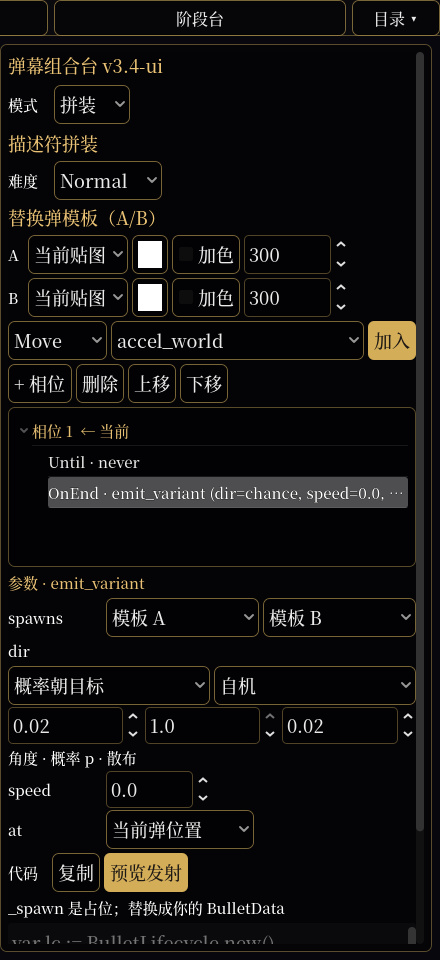
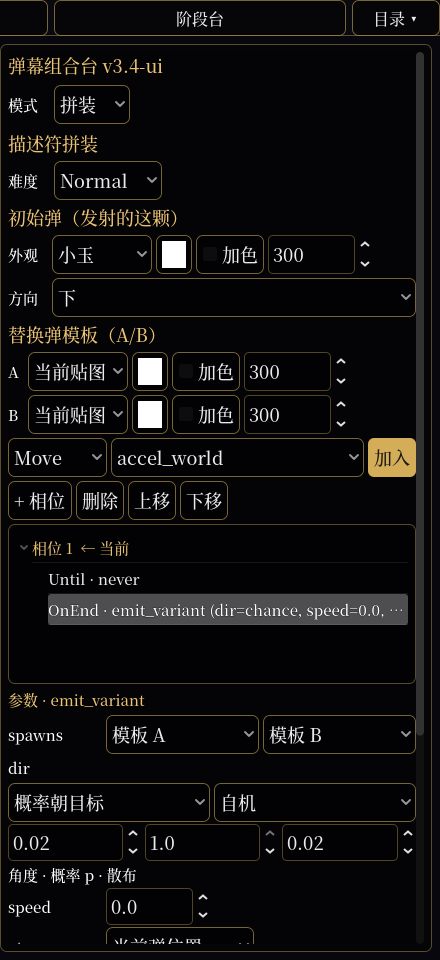
feat(composer): 初始弹编辑入口 + 同步直射控件
- 拼装页顶部新增“初始弹（发射的这颗）”：贴图 / 染色 / 加色 / 速度 / 方向
- 初始弹写回 BulletShell，并同步直射页控件，切回直射不会被旧值覆盖
- 与 A/B 替换弹模板区分：初始弹是发射的这颗，A/B 是 emit/emit_variant 的替换弹
- 测试：set_base_spec 回写 bench；全量 830 / 7699
- 更新 templates.png（初始弹 + A/B 模板）及 .import

验证：verify 七步全绿。

diff --git a/docs/TEST_INDEX.md b/docs/TEST_INDEX.md
@@ -19,7 +19,7 @@
 ./tools/verify.sh --fast                             # 快速冒烟（~8s，不全量）
 ```
 
-**现状**：119 脚本 / **830 用例（830 通过 / 0 红 —— ✅ 全绿）/ 7698 断言 / 54.648s** / 19 orphans / **0 pending**。
+**现状**：119 脚本 / **830 用例（830 通过 / 0 红 —— ✅ 全绿）/ 7699 断言 / 54.829s** / 19 orphans / **0 pending**。
 
 ## 分层
 
@@ -239,7 +239,7 @@
 | 文件 | 保护什么 | 用例 | 白盒 |
 |---|---|---|---|
 | [test_enemy_rig](../test/test_enemy_rig.gd) | 敌人组合台：壳组装 / 真实生成 / 热重载重演（`load_script` / `spawn_at` / `force_hot_reload`） | 4 | 0 |
-| [test_bullet_rig](../test/test_bullet_rig.gd) | 弹幕试验台：热更新成功重演 / 失败保旧版（`poll_hot_reload` / `age_watch_mtime` / `param_panel`）· **F10b 拼装模式加 op / 生成代码 / 预览发射 / A/B 模板快照** | 4 | 0 |
+| [test_bullet_rig](../test/test_bullet_rig.gd) | 弹幕试验台：热更新成功重演 / 失败保旧版（`poll_hot_reload` / `age_watch_mtime` / `param_panel`）· **F10b 拼装模式加 op / 生成代码 / 预览发射 / 初始弹编辑 / A/B 模板快照** | 4 | 0 |
 | [test_creation_station](../test/test_creation_station.gd) | 创作台（四页签）：页签切换 / 实例保持 / 运行时清理 / 路由切台+装配· **真点击验页签不被子视图吃掉**（作者报的回归）· **全局目录抽屉四页签可开 / 从台子里路由**· **描述符组双击路由到拼装页** | 8 | 0 |
 | [test_catalog_panel](../test/test_catalog_panel.gd) | `CatalogPanel` 目录树渲染：组头完整 / 重名消歧 / 拖拽 / **搜索真的在筛**（原先那半条是空转的） | 3 | 0 |
 | [test_phase_rig](../test/test_phase_rig.gd) | 阶段组合台：壳副本 / 双槽默认 / 开演真实生成（`select_phase` / `hp_value` / `selected_shoot_script` / `play`） | 4 | 0 |

diff --git a/docs/BEST_PRACTICES_LOG.md b/docs/BEST_PRACTICES_LOG.md
@@ -26,8 +26,9 @@
 
 ## 索引
 
-> 共 19 条（本文件留最近 19 条，其余在 `docs/archive/`；本段由 `tools/log_archive.py` 生成，手改会被覆盖）。
+> 共 20 条（本文件留最近 20 条，其余在 `docs/archive/`；本段由 `tools/log_archive.py` 生成，手改会被覆盖）。
 
+- 2026-10-17 — F10 拼装页补“初始弹”编辑
 - 2026-10-17 — F10 模板选择器：emit / emit_variant 的 A/B 替换弹
 - 2026-10-17 — F10c：删掉 9 个 bullet preset，内容改手写原语
 - 2026-10-17 — F10b：弹幕台拼装页 + 描述符目录组 + 代码生成
@@ -49,6 +50,13 @@
 - 2026-10-04 — 废止「记得调用才显示」：背景演出层改**宿主自动接线**（练习模式也开黑雾）
 
 ## 记录
+
+### 2026-10-17 — F10 拼装页补“初始弹”编辑
+
+- 拼装页顶部新增“初始弹（发射的这颗）”：贴图 / 染色 / 加色 / 速度 / 方向（8 方位 + 自选）。
+- 初始弹编辑写回 bench 的 `BulletShell`，并同步直射页控件；切回直射不会被旧值覆盖。
+- 与 A/B 替换弹模板区分：初始弹是发射的这颗，A/B 是 `emit` / `emit_variant` 的替换弹。
+- 测试：`set_base_spec` 回写 bench；全量 830 / 7699。
 
 ### 2026-10-17 — F10 模板选择器：emit / emit_variant 的 A/B 替换弹
 

diff --git a/README.md b/README.md
@@ -135,7 +135,7 @@ grep -rn "关键词" --include="*.gd" scripts/ data/
 - **调参工具**：固定种子（可复现）· 命中框 · 逐帧（F）· 12x 快进跳转 · 书签（静态提取 + 人工打点）
 - 幽灵玩家提供自机狙目标；静音/背景开关/事件日志/实时状态
 - **全局目录**：顶栏「目录」抽屉，四个页签下都能开；双击条目直达对应台（不再只活在整关预览里）
-- **弹幕台两种模式**：直射（现有壳/行为脚本）· 拼装（Move/Until/Action/Dir + A/B 替换弹模板 → 预览 → 生成/复制代码；目录里有「弹道描述符」组）
+- **弹幕台两种模式**：直射（现有壳/行为脚本）· 拼装（初始弹 + A/B 替换弹模板 + Move/Until/Action/Dir → 预览 → 生成/复制代码；目录里有「弹道描述符」组）
 - **弹幕 / 敌人 / 阶段三个组合台有热更新**（改脚本约 1.3s 自动重载）；**整关预览没有**，改关卡脚本/时间线后切页或重启
 - 目录自动扫描 `res://data/`，双击条目直达对应组合台（面板显示条数 / 警告数）
 - 创作流程见 [CONTENT_GUIDE.md](CONTENT_GUIDE.md)；架构决策见 [docs/archive/ARCHITECTURE_ROADMAP.md](docs/archive/ARCHITECTURE_ROADMAP.md)「内容工作台演进」专节（已归档）

diff --git a/CONTENT_GUIDE.md b/CONTENT_GUIDE.md
@@ -396,7 +396,7 @@ func _fire(p_ctx: StageContext) -> void:
 ```
 
 > 不想手写？F6 创作台 → 弹幕台 → **拼装**：选 Move/Until/Action、调参数、预览、复制代码。
-> `emit` / `emit_variant` 可分别用 A/B 两个替换弹模板（贴图/染色/加色/速度）。
+> 拼装页顶部可编辑**初始弹**（贴图/染色/加色/速度/方向）；`emit` / `emit_variant` 可分别用 A/B 两个替换弹模板。
 
 #### ② 常见组合（preset 已删，照着拼）
 
